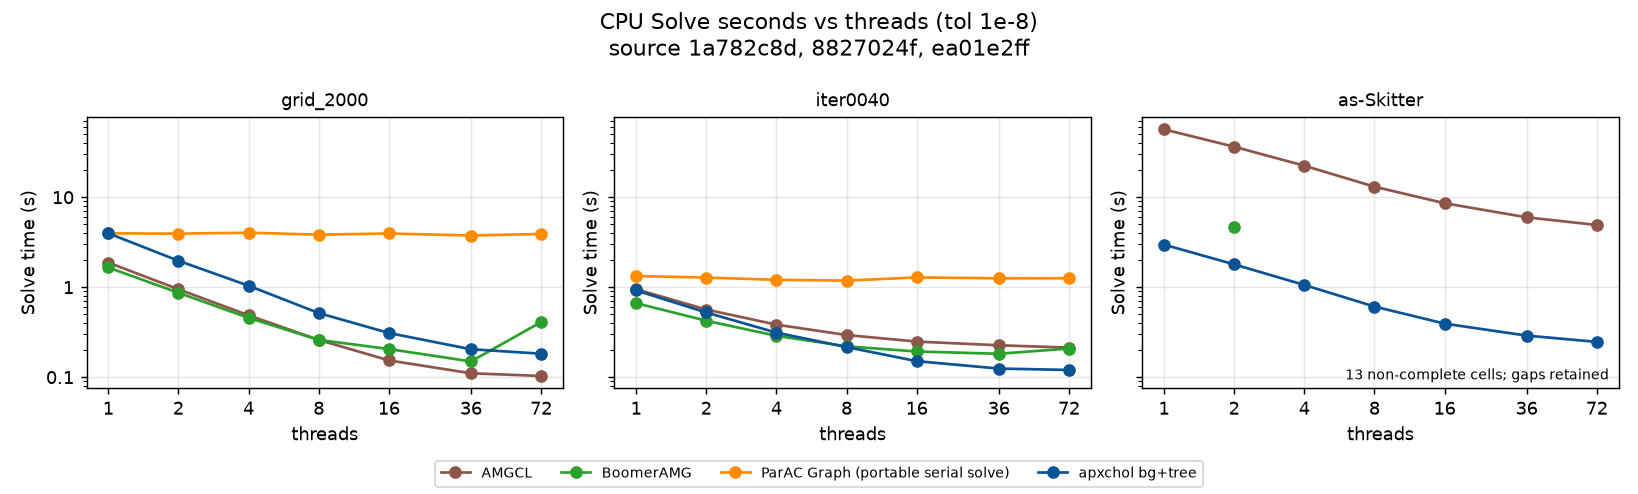
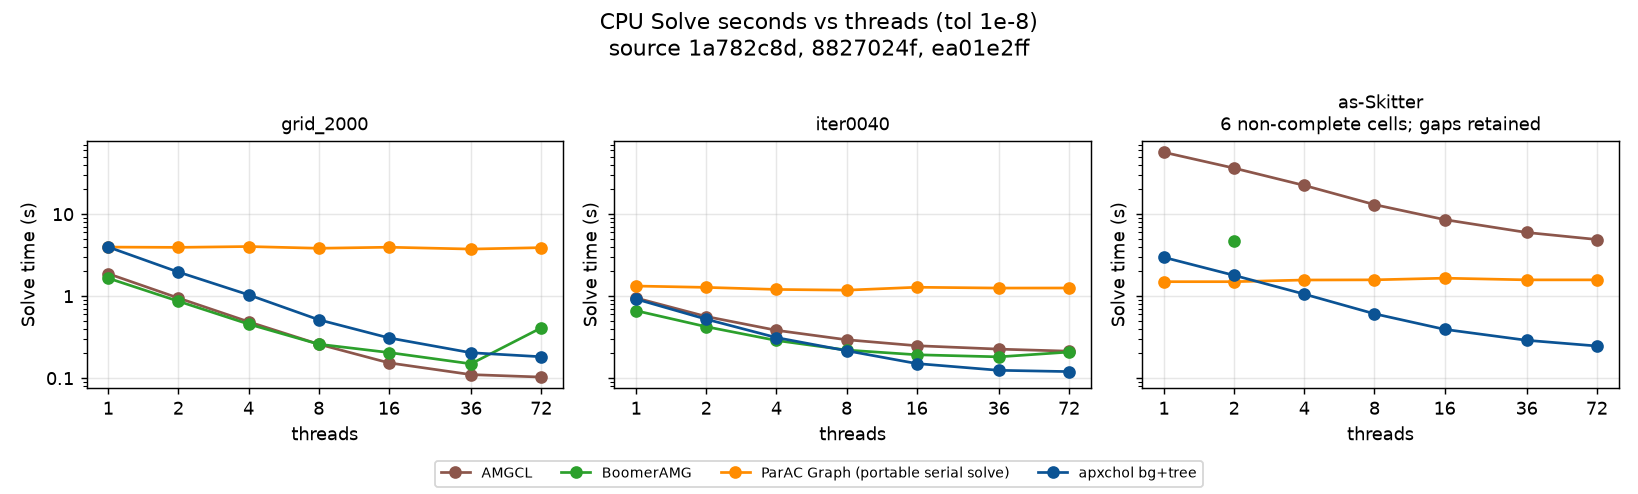
Complete the matched Skitter ParAC scaling curve

diff --git a/benchmarks/thread_scaling.py b/benchmarks/thread_scaling.py
@@ -414,8 +414,8 @@ def charts(out=f"{ROOT}/results/plots", compact=False):
                 missing = sum(r["status"] != "complete" for r in recs
                               if r["cell"]["matrix_id"] == mid)
                 if missing:
-                    ax.text(.98, .02, f"{missing} non-complete cells; gaps retained",
-                            transform=ax.transAxes, ha="right", va="bottom", fontsize=8)
+                    ax.set_title(ax.get_title() + f"\n{missing} non-complete cells; gaps retained",
+                                 fontsize=10)
             ax.grid(True, alpha=0.3)
         # one global legend (union across panels) so no line is missing from it
         hl = {}

diff --git a/benchmarks/daint/README.md b/benchmarks/daint/README.md
@@ -43,7 +43,7 @@ Status counts: complete: 426, failed: 14, n/a: 6, not_converged: 7, timeout: 6.
 
 ## CPU setup scaling
 
-apxchol source `1a782c8d` (4619429); representative competitors: AMGCL/Hypre `ea01e2ff` and ParAC adapter `8827024f` (4619591).
+apxchol source `1a782c8d` (4619429); representative competitors: AMGCL/Hypre `ea01e2ff` and ParAC adapter `8827024f` (4619591; Skitter follow-up 4622020).
 
 [84 measured cells](thread_scaling.csv) · [Baseline and iteration diagnostics](cpu_scaling_diagnostics.csv) · [Campaign provenance and controls](cpu_scaling_provenance.json)
 
@@ -51,13 +51,14 @@ The 12 matrices cover T=1,2,4,8,16,36,72, one warmup and three retained repetiti
 
 The main view uses three representative matrices: a four-million-row grid,
 LP-IPM `iter0040`, and the 1.70-million-row SuiteSparse `as-Skitter` graph.
-The representative denominator is **84 points: 71 complete, 2 whole-cell
-timeouts and 11 unattempted**. It combines 21 apxchol points with all 63 planned
-competitor dispositions. AMGCL, default Hypre and ParAC Graph each have full
-grid/IPM curves; Skitter has a complete AMGCL curve and one Hypre T=2 absolute
-point. Hypre Skitter has no complete T=1 baseline, so no speedup curve is drawn.
+The representative denominator is **84 points: 78 complete, 2 whole-cell
+timeouts and 4 unattempted**. It combines 21 apxchol points with all 63 planned
+competitor identities, with seven previously unattempted ParAC points supplied
+by the separate Skitter follow-up. AMGCL and ParAC Graph have complete curves
+on all three matrices; default Hypre has full grid/IPM curves and one Skitter
+T=2 absolute point. Hypre Skitter has no complete T=1 baseline, so no speedup curve is drawn.
 No historical endpoint is substituted. [Selection and audit provenance](representative_scaling_provenance.json)
-records both campaigns; this is not an interleaved comparison between solvers.
+records each campaign; this is not an interleaved comparison between solvers.
 
 Both axes are logarithmic. Equal spacing shows equal multiplicative changes;
 the dashed speedup line is ideal linear scaling. The shared seconds scale
@@ -74,7 +75,7 @@ retains the exact times.
 
 ## CPU converged-solve scaling
 
-apxchol source `1a782c8d` (4619429); representative competitors: AMGCL/Hypre `ea01e2ff` and ParAC adapter `8827024f` (4619591).
+apxchol source `1a782c8d` (4619429); representative competitors: AMGCL/Hypre `ea01e2ff` and ParAC adapter `8827024f` (4619591; Skitter follow-up 4622020).
 
 These are full solves at true relative residual ≤1e-8. Thread count changes the preconditioner and iteration count: Orkut’s same-node speedup is **21.15×**, with iterations changing 50→18. The diagnostics separate average time per iteration from full solve speedup. Factor fill was not measured and remains blank.
 
@@ -90,20 +91,25 @@ Absolute times at T=72 (seconds; each entry is **setup / solve**):
 |---|---:|---:|---:|---:|
 | grid_2000 | 0.144 / 0.182 | 0.305 / 0.103 | 1.596 / 0.410 | 28.613 / 3.905 |
 | iter0040 | 0.211 / 0.120 | 7.826 / 0.213 | 0.425 / 0.208 | 12.014 / 1.257 |
-| as-Skitter | 0.514 / 0.247 | 1.842 / 4.907 | unattempted | unattempted |
+| as-Skitter | 0.514 / 0.247 | 1.842 / 4.907 | unattempted | 62.893 / 1.580 |
 
 ParAC Graph uses the **portable-cpp serial solve**, not a parallel PCG backend.
 Requested T applies to native factorization. Fixed serial preparation is charged
-at every T, including cache reuse: 24.837 s on the grid and 10.452 s on IPM,
-about 87% of T=72 setup. The nearly flat curves therefore describe this portable
+at every T, including cache reuse: 24.837 s on the grid, 10.452 s on IPM
+and 58.097 s on Skitter—about 87%, 87% and 92% of T=72 setup respectively. The nearly flat curves therefore describe this portable
 implementation and its complete setup boundary; worker utilization was not traced.
 
 Hypre Skitter T=2 completed at **218.208 s setup / 4.712 s solve**. T=1 exhausted
 its 900 s whole-cell budget after three converged partial repeats; T=4 received
 only 84 s of remaining shard budget. Neither timeout is a numerical convergence
-failure or a lower bound on one solve. Hypre T=8/16/36/72 and all seven Skitter
-ParAC points were unattempted. The original campaign verdict remains FAILED85;
-a follow-up is being prepared only for the never-started ParAC curve.
+failure or a lower bound on one solve. Hypre T=8/16/36/72 remain unattempted.
+The original 4619591 campaign verdict remains FAILED85 (50 complete, 2 timeout,
+11 unattempted). Follow-up 4622020 completed only the seven never-started ParAC
+points on one node, using its own fresh T=1 reference. All 28 warmup/retained
+solutions passed original-system grading; seven calibration probes are separate.
+Skitter ParAC setup changes 64.920→62.893 s (1.032×) and solve 1.501→1.580 s
+(0.950×), with 19→20 iterations. No Hypre retry or historical endpoint splicing
+was used.
 
 The grid Hypre solve downturn from **0.1495 s at T=36 to 0.4099 s at T=72** is
 retained. Its fresh T=72 solve is 24% slower than the old endpoint using the
